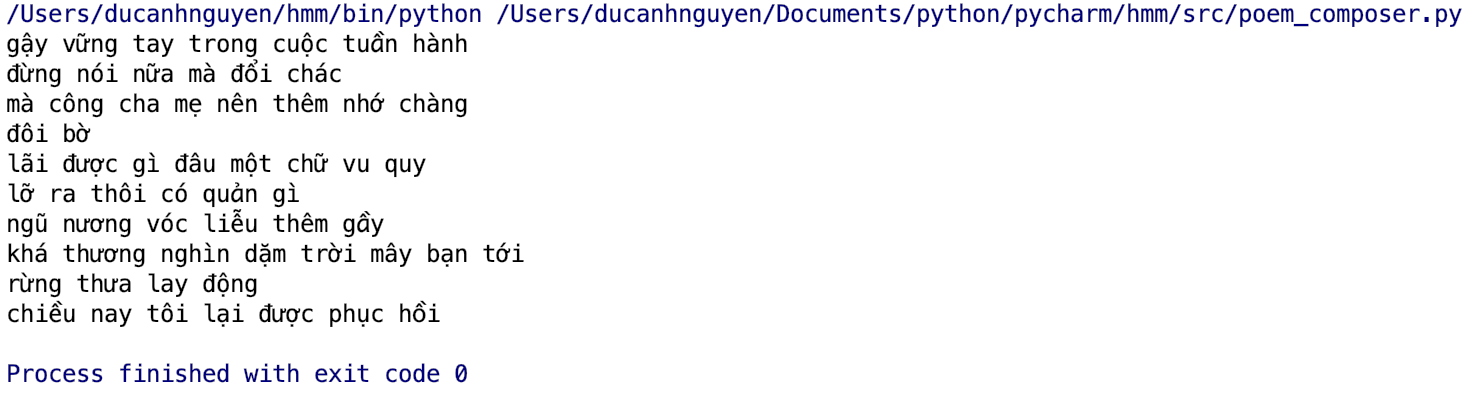
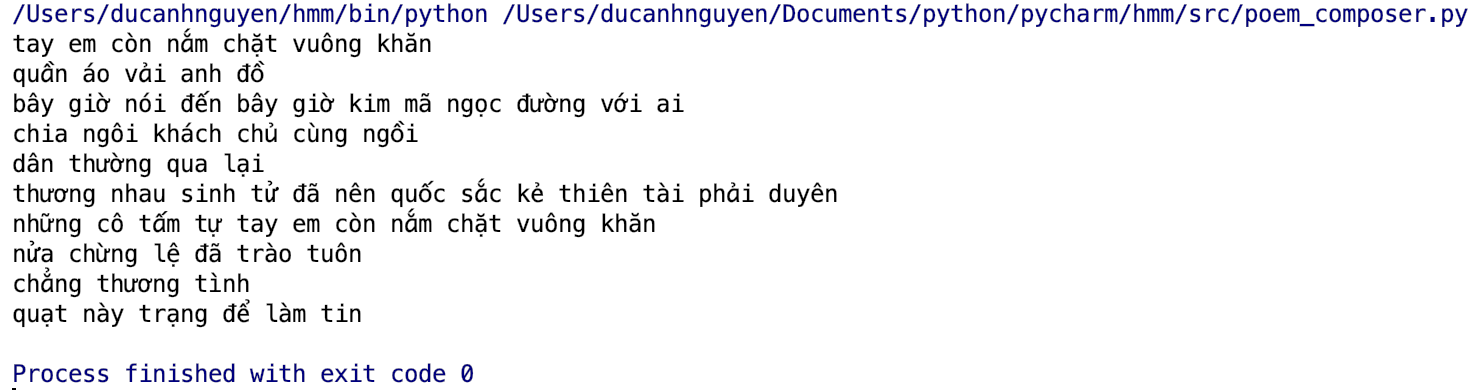
example of poem

Changed region(s): [[0.0, 0.0, 0.9973, 0.8308], [0.0, 0.9231, 0.3428, 0.9846]]

diff --git a/src/poem_composer.py b/src/poem_composer.py
@@ -5,9 +5,11 @@ import numpy as np
 
 
 def read_data():
-    f = open("../data/nguyen-binh.txt")
-    poem = f.read()
+    poem = open("../data/nguyen-binh.txt").read()
+    poem += open("../data/truyen_kieu.txt").read()
+
     lines = poem.lower().split("\n")
+
     return lines
 
 
